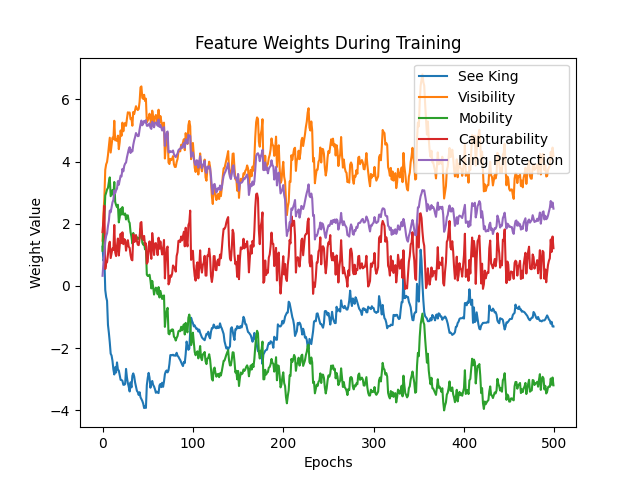
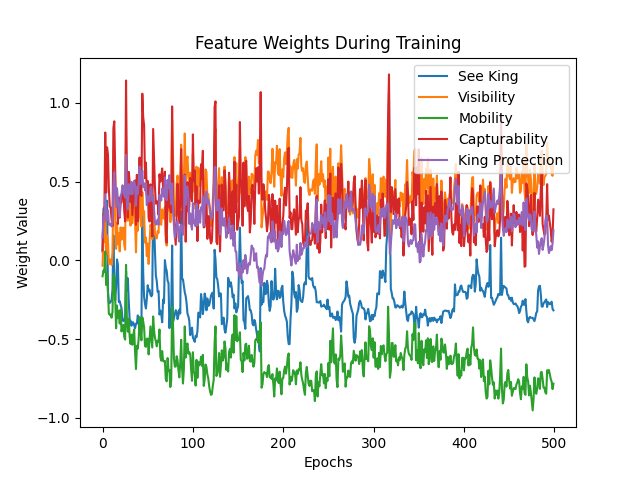
final

diff --git a/QLearning.py b/QLearning.py
@@ -5,7 +5,7 @@ class QLearningAgent:
             self._weights=[random.uniform(-0.1, 0.1) for _ in range(5)]
             self._epsilon=0.2
             self._learningRate=0.05 # slow learning set high number of epochs so can see smoth curve
-            self._discountFactor=0.9 # future matters because we dont want to just go for captures and risk exposing by weaking the position 
+            self._discountFactor=0.6 # since there is no monte carlo integration discount is set to a more greedy value to force imeediate learing 
 
         @property
         def discountFactor(self):